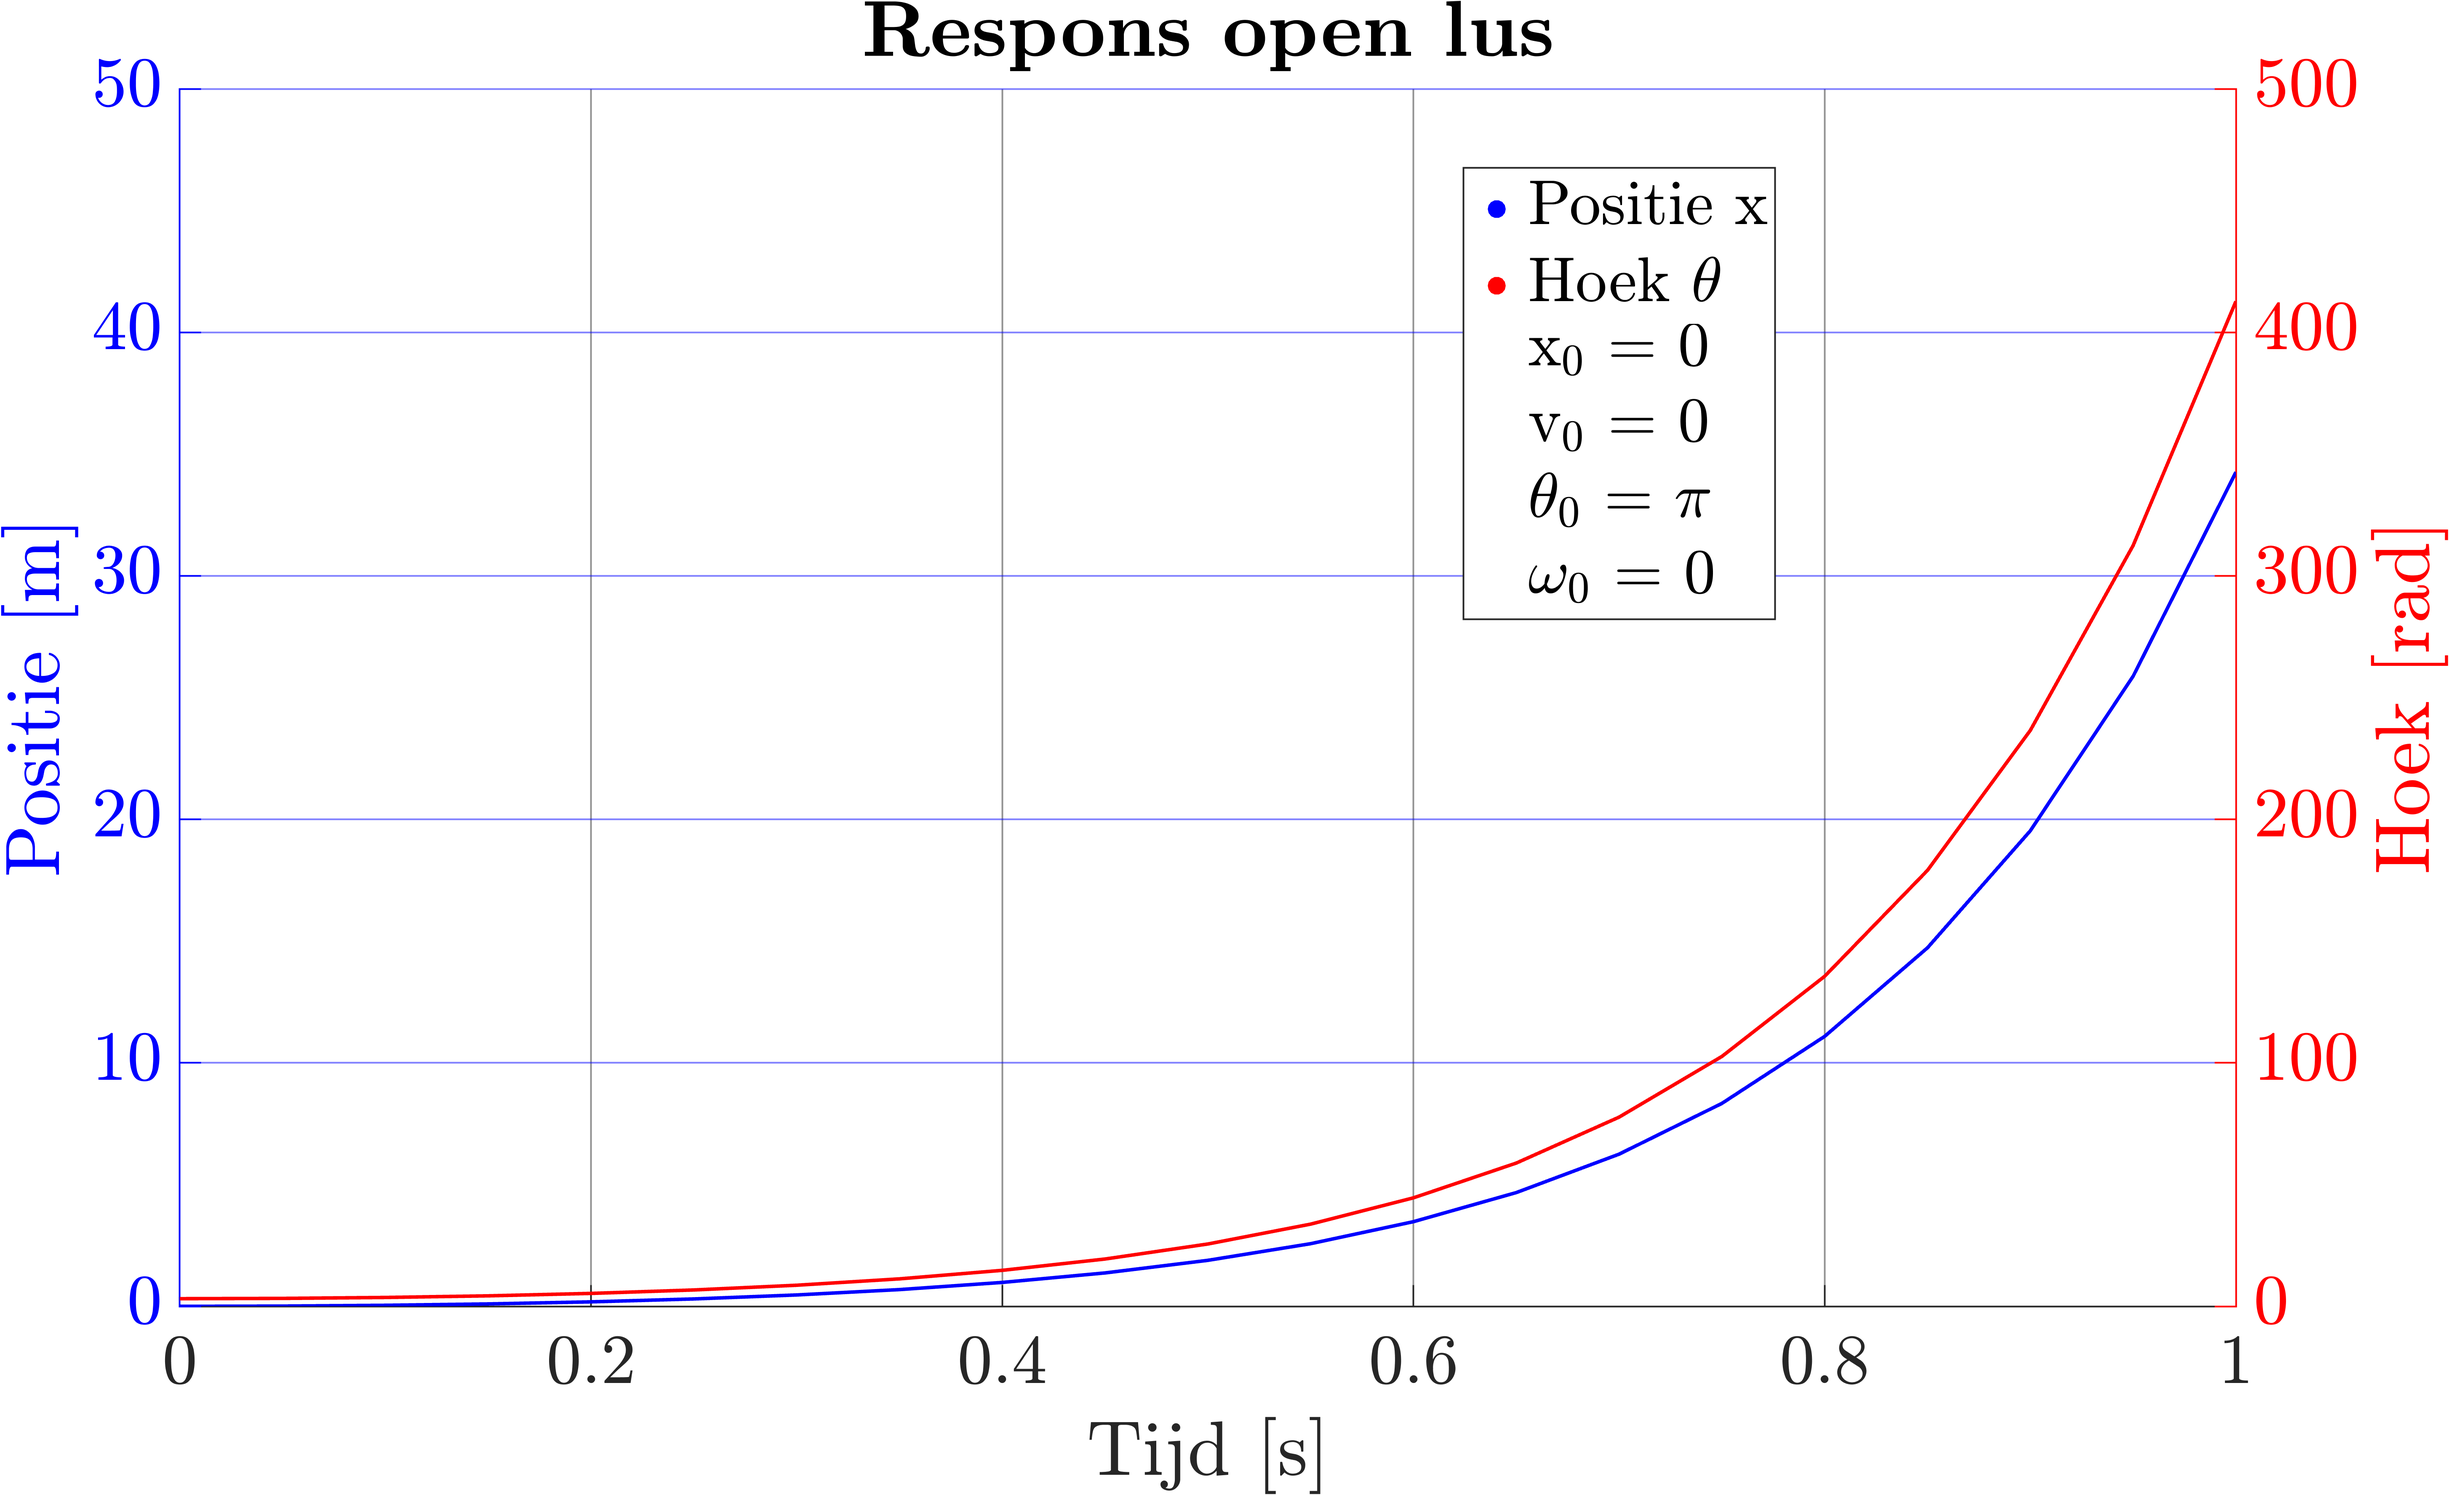
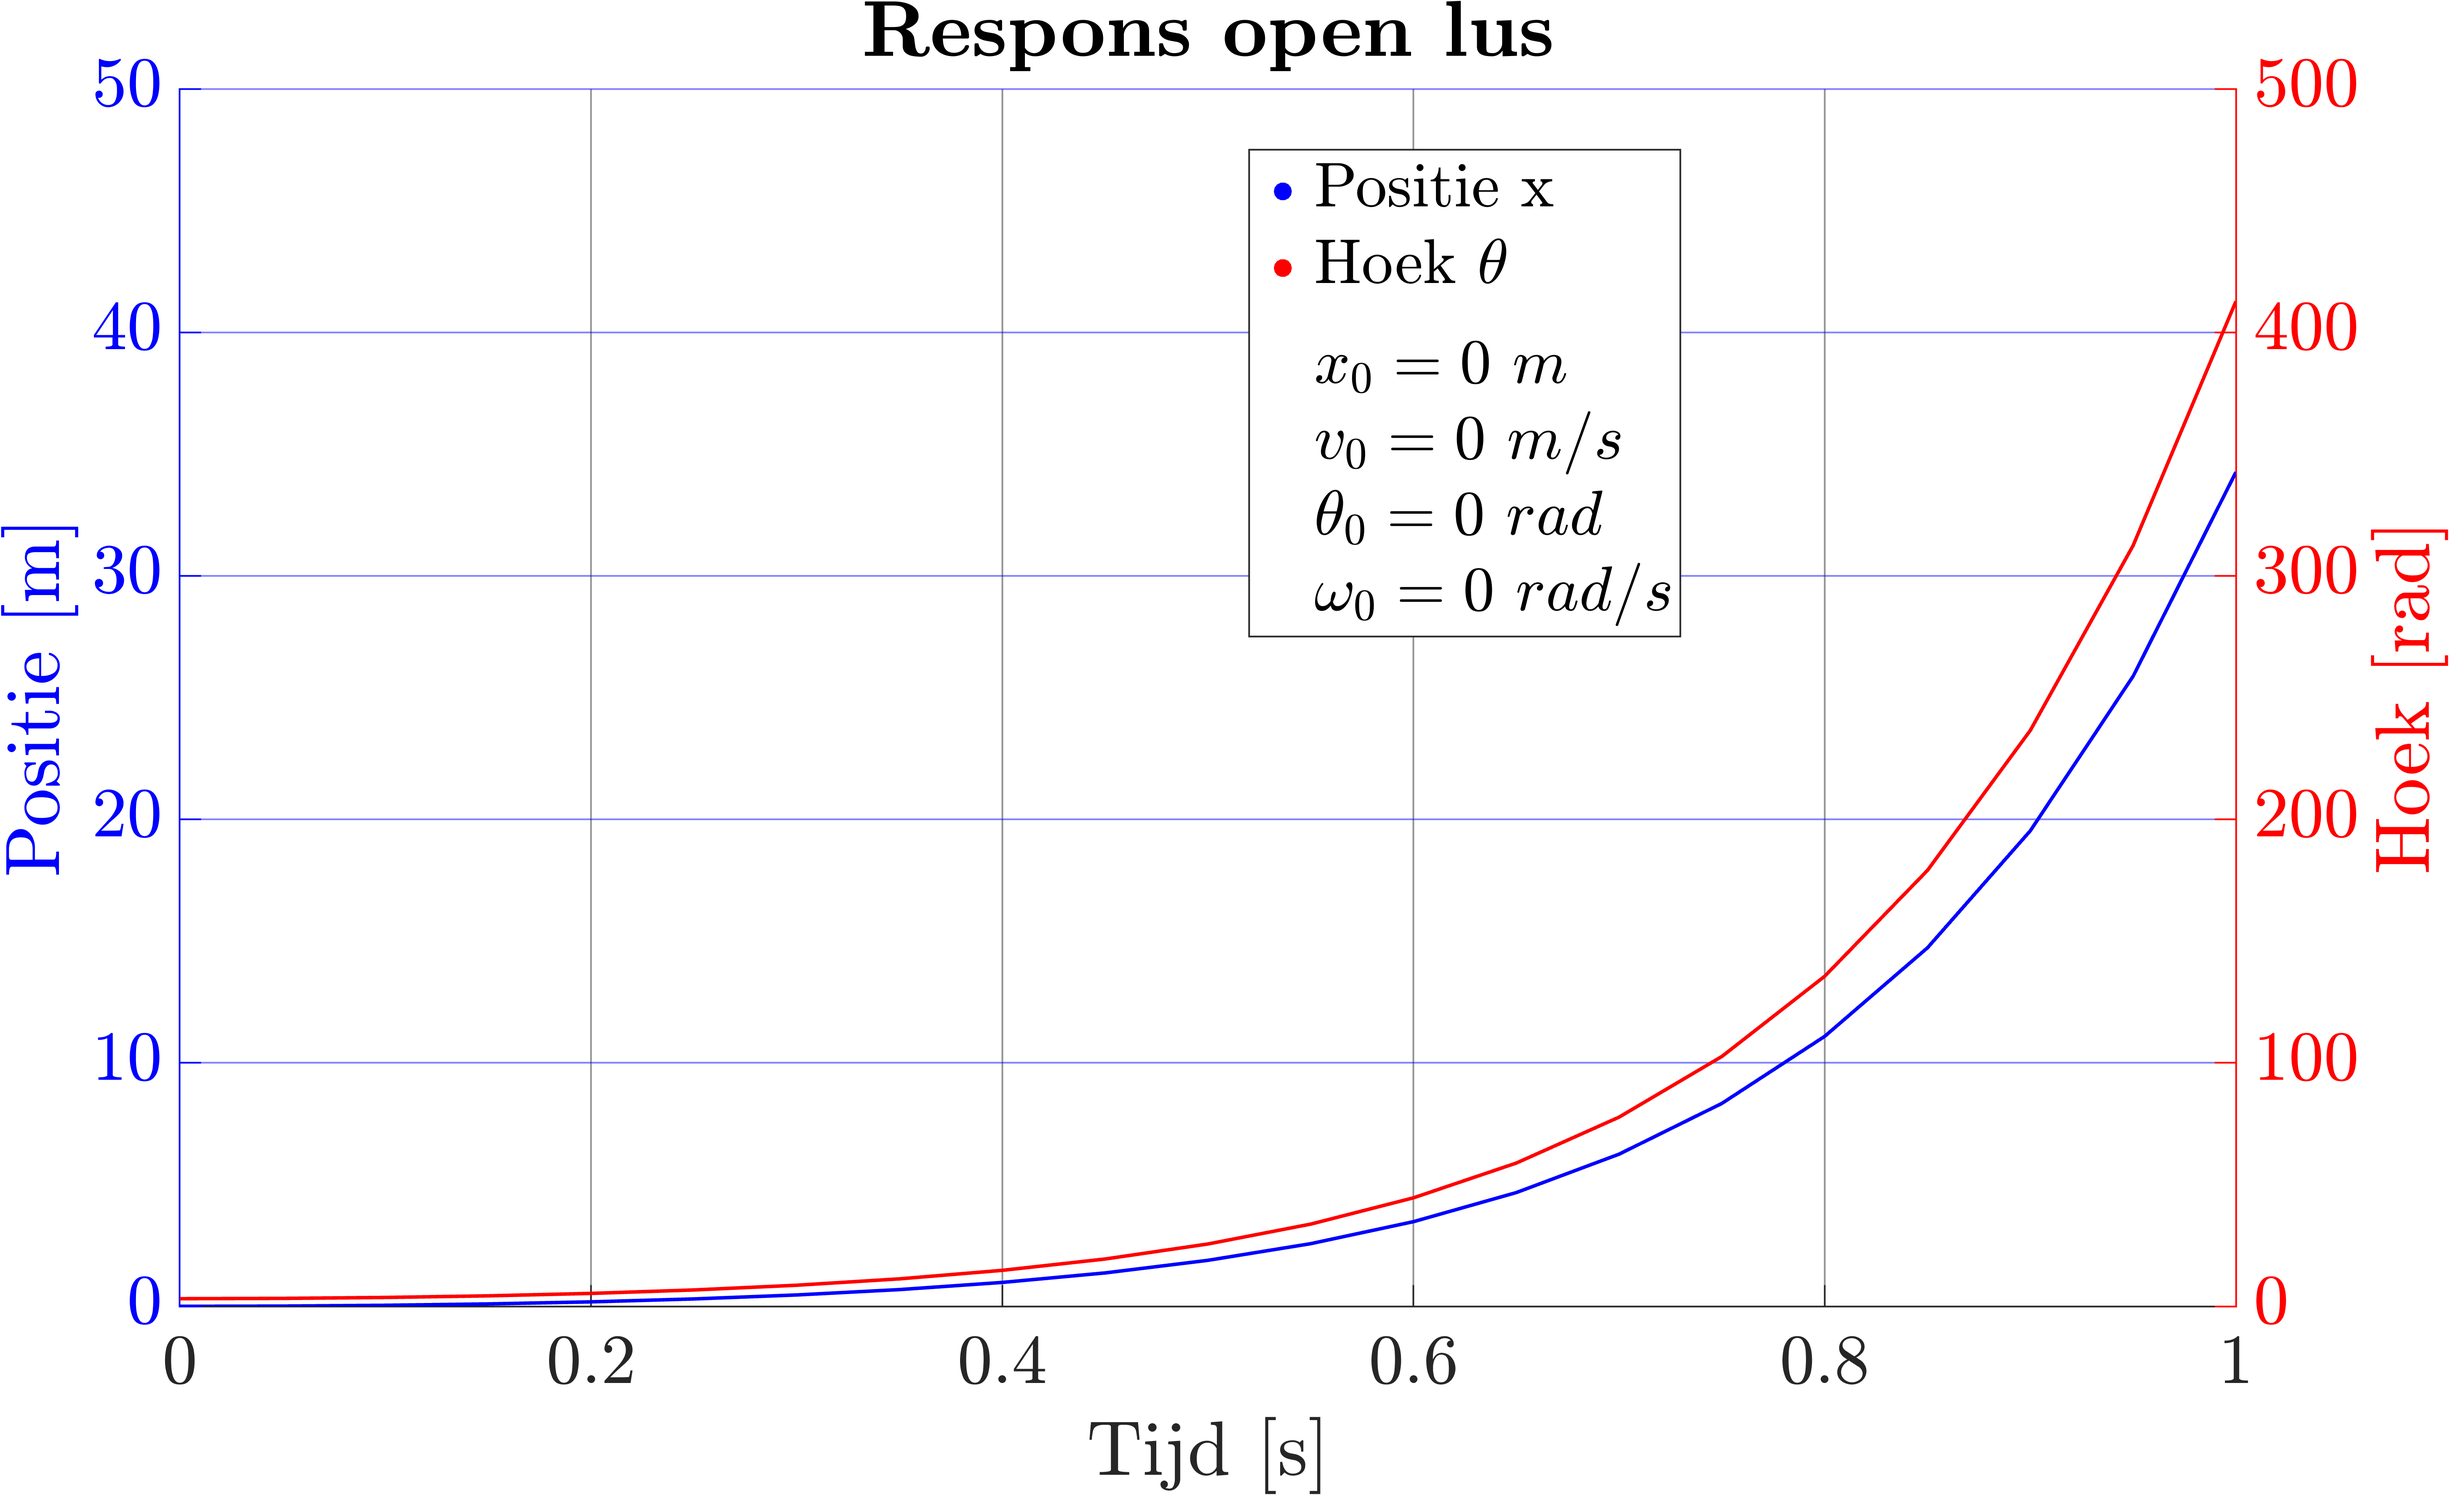
Plots

Changed region(s): [[0.4979, 0.093, 0.7158, 0.2479], [0.5291, 0.2789, 0.7158, 0.4338], [0.5291, 0.2789, 0.5602, 0.3099]]

diff --git a/CleanFile.m b/CleanFile.m
@@ -82,8 +82,8 @@ plot(nan,nan,'w')
 ylabel('Hoek [rad]')
 xlabel('Tijd [s]')
 title('\textbf{Respons open lus}','FontSize',45)
-legend('Positie x','Hoek $\theta$',"x$_0$ = 0"+newline+"v$_0$ = 0"+newline+"$\theta_0$ = $\pi$"+newline+"$\omega_0$ = 0")
-exportgraphics(F,PATH+"/Plots-Video/ResponsOpenLus.png",'Resolution',300)
+legend('Positie x','Hoek $\theta$',newline+"$x_0 = 0\ m$"+newline+"$v_0 = 0\ m/s$"+newline+"$\theta_0 = 0\ rad$"+newline+"$\omega_0 = 0\ rad/s$")
+%exportgraphics(F,PATH+"/Plots-Video/ResponsOpenLus.png",'Resolution',300)
 %% Hoekcontroller
 ps2 = pole(Sdtf(2));
 zs2 = zero(Sdtf(2));
@@ -99,7 +99,7 @@ plot(nan,nan,'w.')
 ylabel('Kracht [N]')
 xlabel('Tijd [s]')
 title('\textbf{Impulsrespons open lus met $R_{theta}$}','FontSize',45)
-legend("$F_0$ = 0 N")
+legend("$F_0 = 0\ N$")
 %exportgraphics(F,PATH+"/Plots-Video/ImpulsResponsOpenLusR2.png",'Resolution',300)
 %% Plot Hoekcontroller gesloten
 t = 0:Ts:5;
@@ -119,8 +119,8 @@ ylim([-5 15])
 ylabel('Hoek [rad]')
 xlabel('Tijd [s]')
 title('\textbf{Impuls gesloten lus met $R_{theta}$}','FontSize',45)
-legend('Positie x','Hoek $\theta$',newline+"x$_0$ = 0 m"+newline+"v$_0$ = 0 m/s"+newline+"$\theta_0$ = 0°"+newline+"$\omega_0$ = 0°")
-%exportgraphics(F,PATH+"/Plots-Video/ImpulsResponsGeslotenLusR2.png",'Resolution',300)
+legend('Positie x','Hoek $\theta$',newline+"$x_0 = 0\ m$"+newline+"$v_0 = 0\ m/s$"+newline+"$\theta_0 = 0\ rad$"+newline+"$\omega_0 = 0\ rad/s$")
+exportgraphics(F,PATH+"/Plots-Video/ImpulsResponsGeslotenLusR2.png",'Resolution',300)
 %% Positiecontroller
 ps1 = pole(Sdtf(1));
 zs1 = zero(Sdtf(1));
@@ -137,7 +137,27 @@ ylabel('Kracht [N]')
 xlabel('Tijd [s]')
 title('\textbf{Impulsrespons open lus met $R_{x}$}','FontSize',45)
 legend("$F_0$ = 0 N")
-exportgraphics(F,PATH+"/Plots-Video/ImpulsResponsOpenLusR1.png",'Resolution',300)
+%exportgraphics(F,PATH+"/Plots-Video/ImpulsResponsOpenLusR1.png",'Resolution',300)
+%% Plot Positiecontroller gesloten
+t = 0:Ts:6;
+[y] = impulse(feedback(Rd1*Sd,[1 0]),t);
+F = figure;
+hold on
+colororder({'b','r'})
+yyaxis left
+plot(t,y(:,1),'HandleVisibility','off')
+plot(nan,nan,'.')
+ylabel('Positie [m]')
+yyaxis right
+plot(t,y(:,2),'HandleVisibility','off')
+plot(nan,nan,'.')
+plot(nan,nan,'w')
+ylim([-5 15])
+ylabel('Hoek [rad]')
+xlabel('Tijd [s]')
+title('\textbf{Impuls gesloten lus met $R_{x}$}','FontSize',45)
+legend('Positie x','Hoek $\theta$',newline+"$x_0 = 0\ m$"+newline+"$v_0 = 0\ m/s$"+newline+"$\theta_0 = 0\ rad$"+newline+"$\omega_0 = 0\ rad/s$")
+exportgraphics(F,PATH+"/Plots-Video/ImpulsResponsGeslotenLusR2.png",'Resolution',300)
 %% State Observer
 ps_d1 = [0,0,0.01,0.01];
 L1 = place(Sd.A', Sd.C', ps_d1);
